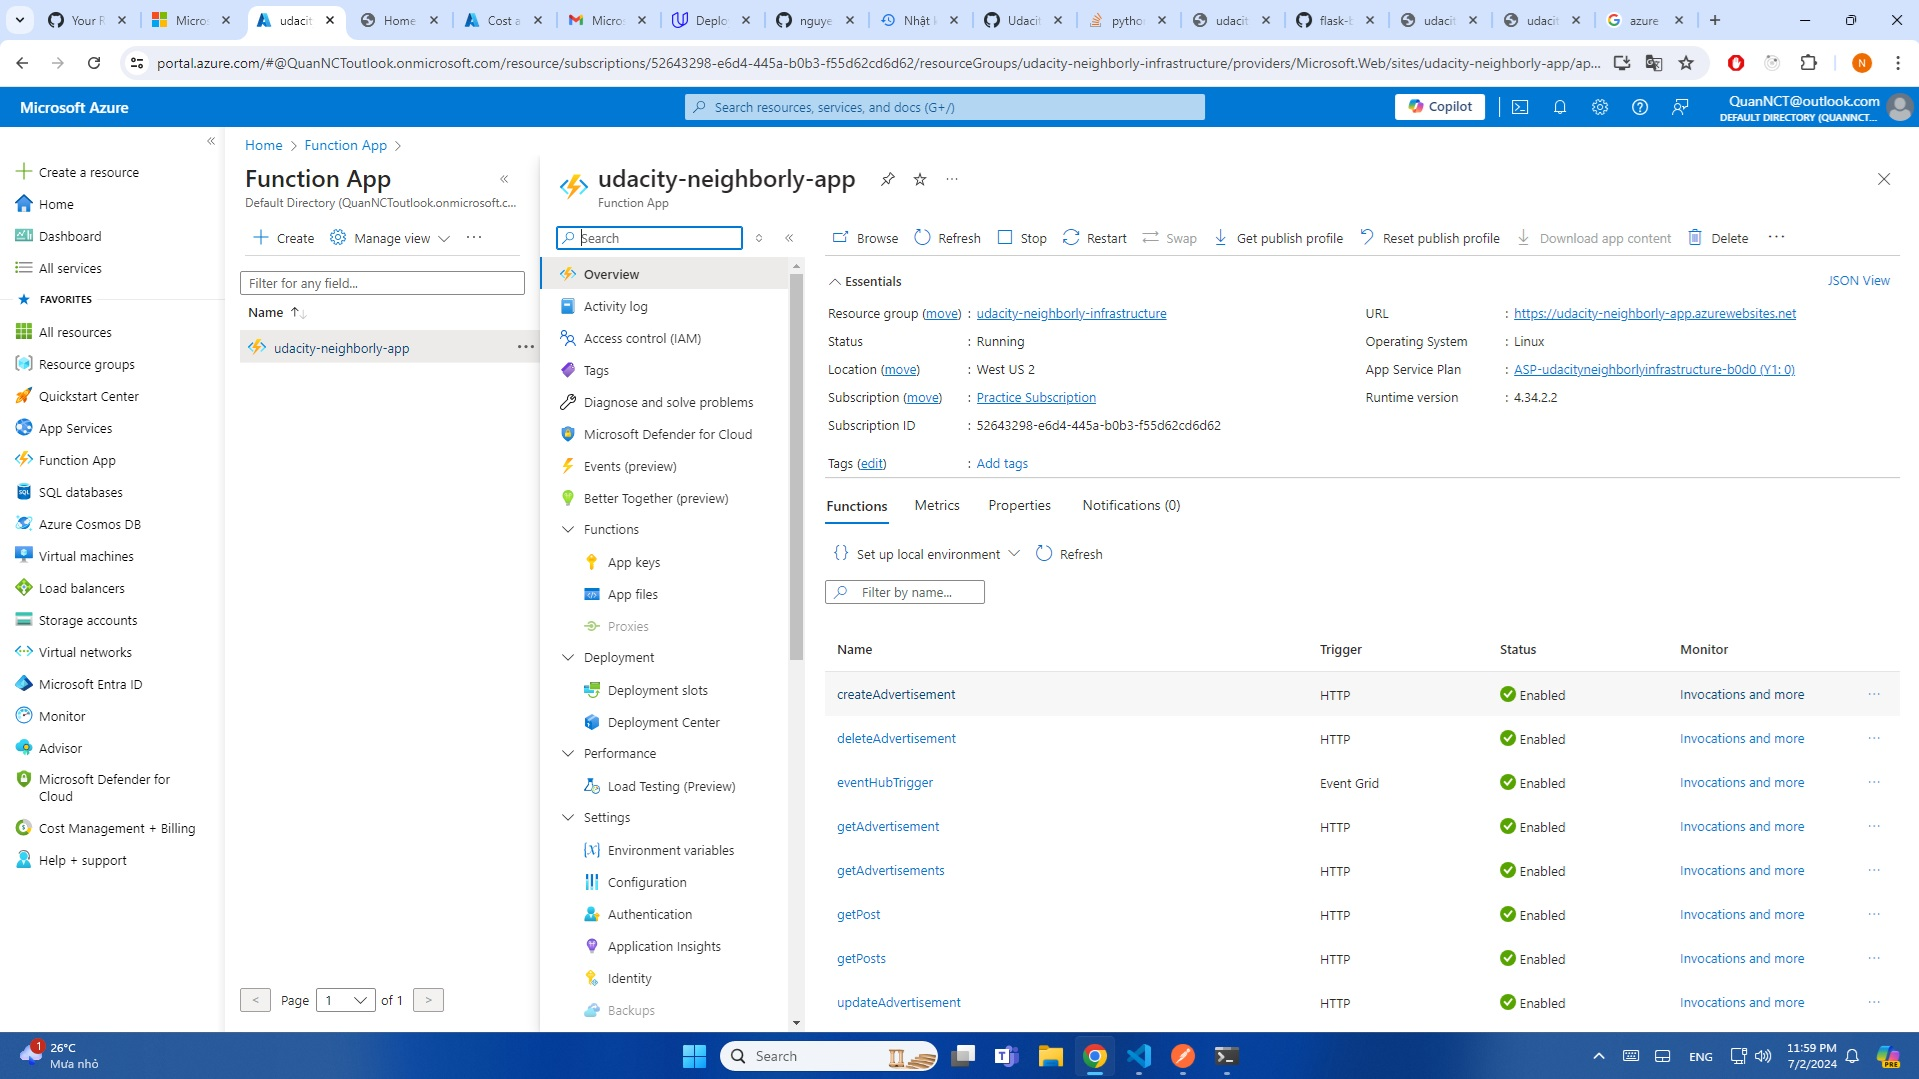
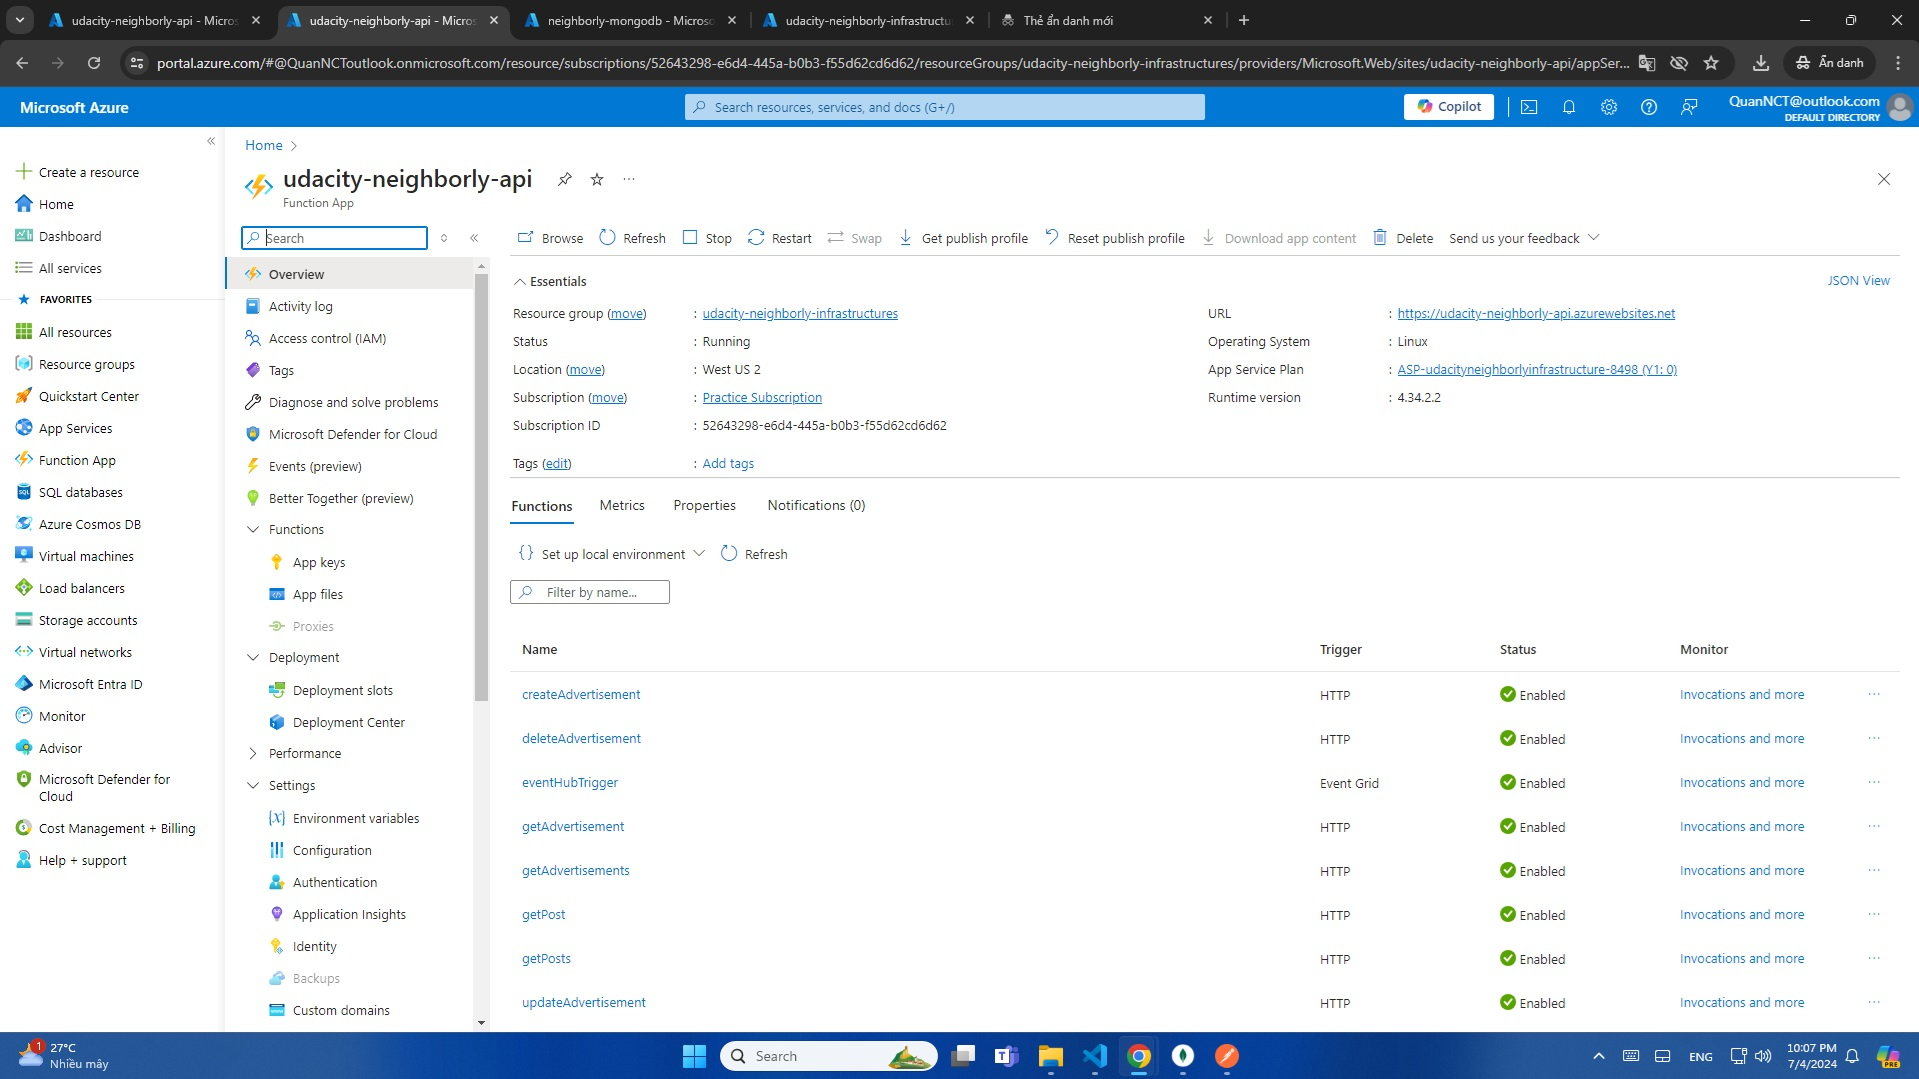
Update frontend

diff --git a/NeighborlyFrontEnd/settings.py b/NeighborlyFrontEnd/settings.py
@@ -16,4 +16,4 @@ API_VERSION = 'v1'
 #API_URL = " https://neighborlyapi.azurewebsites.net/api/"
 
 # for local host if Azure functions served locally
-API_URL = "https://udacity-neighborly-app.azurewebsites.net/api"
+API_URL = "https://udacity-neighborly-api.azurewebsites.net/api"
